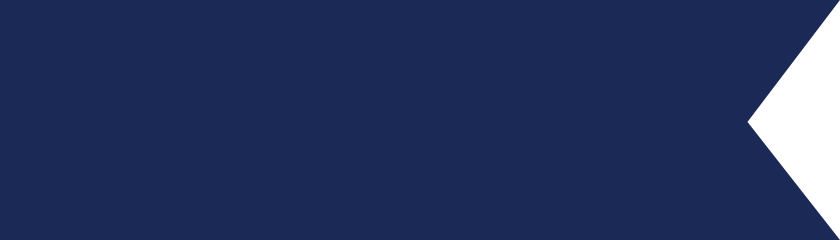
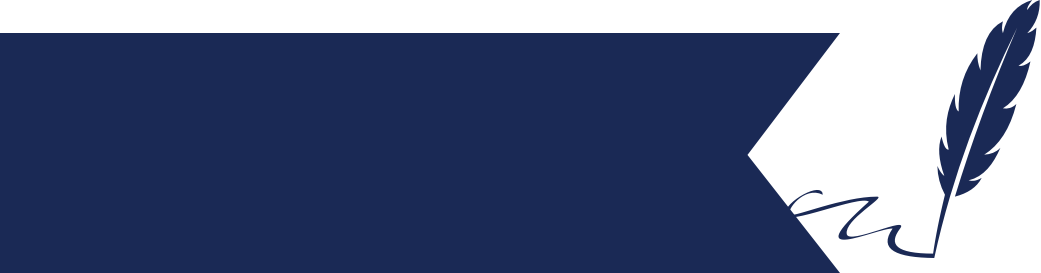
add notes section

Changed region(s): [[0.0, 0.0, 1.0, 1.0]]

diff --git a/components/Path/index.js b/components/Path/index.js
@@ -51,6 +51,7 @@ class Path extends React.Component {
         </View>
         <View style={styles.bottomTextContainer}>
           <Image style={styles.bottomFlag} source={bottomFlag} />
+          <Text style={styles.notesText}>{path.notes}.</Text>
         </View>
       </View>
     );
@@ -66,7 +67,8 @@ class Path extends React.Component {
       name: 'Energy For Menstruation',
       description:
         'This path is designed for those looking to add a natural energy boost to their daily routine. By tracking active nutrients like Vitamin B12, Vitamin D, and Magnesium, this path will help you to stay energized!',
-      notes: '',
+      notes:
+        'We reccommend trying to spend 10-30 minutes in the sun daily to get your recommended daily value of Vitamin D. The time needed for proper absorption varies by season, geolocation and skin complexion. We reccommend kjhlaks lkjfs ksf lkjlkafsjd kjasl kajsflkj lkajflkjad kljafdlkjlkadsf lkajsdflkjlks.',
       notesSources: '',
       createdAt: '2020-06-09T22:23:26.000Z',
       updatedAt: '2020-06-09T22:23:26.000Z',
@@ -173,43 +175,49 @@ const styles = StyleSheet.create({
     width: '100%',
   },
   notesContainer: {
-    position: 'relative',
     width: '100%',
-    height: normalize(210),
+    height: normalize(250),
     backgroundColor: '#36549a',
   },
   topTextContainer: {
-    width: normalize(280),
-    borderColor: '#ffffff',
-    borderWidth: 0.5,
+    justifyContent: 'center',
   },
   topFlag: {
-    position: 'absolute',
-    width: normalize(280),
+    marginTop: normalize(15),
+    width: normalize(347),
     height: undefined,
     // aspectRatio: width / height,
-    aspectRatio: 280 / 80,
+    aspectRatio: 347 / 91,
+  },
+  notesLabel: {
+    paddingTop: normalize(20),
+    marginLeft: '6%',
+    position: 'absolute',
+    fontFamily: 'Cabin-Bold',
+    fontSize: normalize(16),
+    color: '#ffffff',
   },
   bottomTextContainer: {
+    marginTop: normalize(10),
+    justifyContent: 'center',
     alignSelf: 'flex-end',
     width: normalize(345),
-    borderColor: '#ffffff',
-    borderWidth: 0.5,
   },
   bottomFlag: {
-    position: 'absolute',
     width: normalize(345),
     height: undefined,
     // aspectRatio: width / height,
-    aspectRatio: 345 / 80,
+    aspectRatio: 345 / 100,
   },
-  notesLabel: {},
   notesText: {
-    width: normalize(340),
-    alignSelf: 'center',
-    fontFamily: 'Cabin-Regular',
-    fontSize: normalize(16),
-    color: '#555555',
+    textAlign: 'right',
+    width: normalize(290),
+    paddingRight: '5%',
+    alignSelf: 'flex-end',
+    position: 'absolute',
+    fontFamily: 'Cabin-Bold',
+    fontSize: normalize(12),
+    color: '#ffffff',
   },
   rectangle: {
     backgroundColor: '#FFFFFF',
